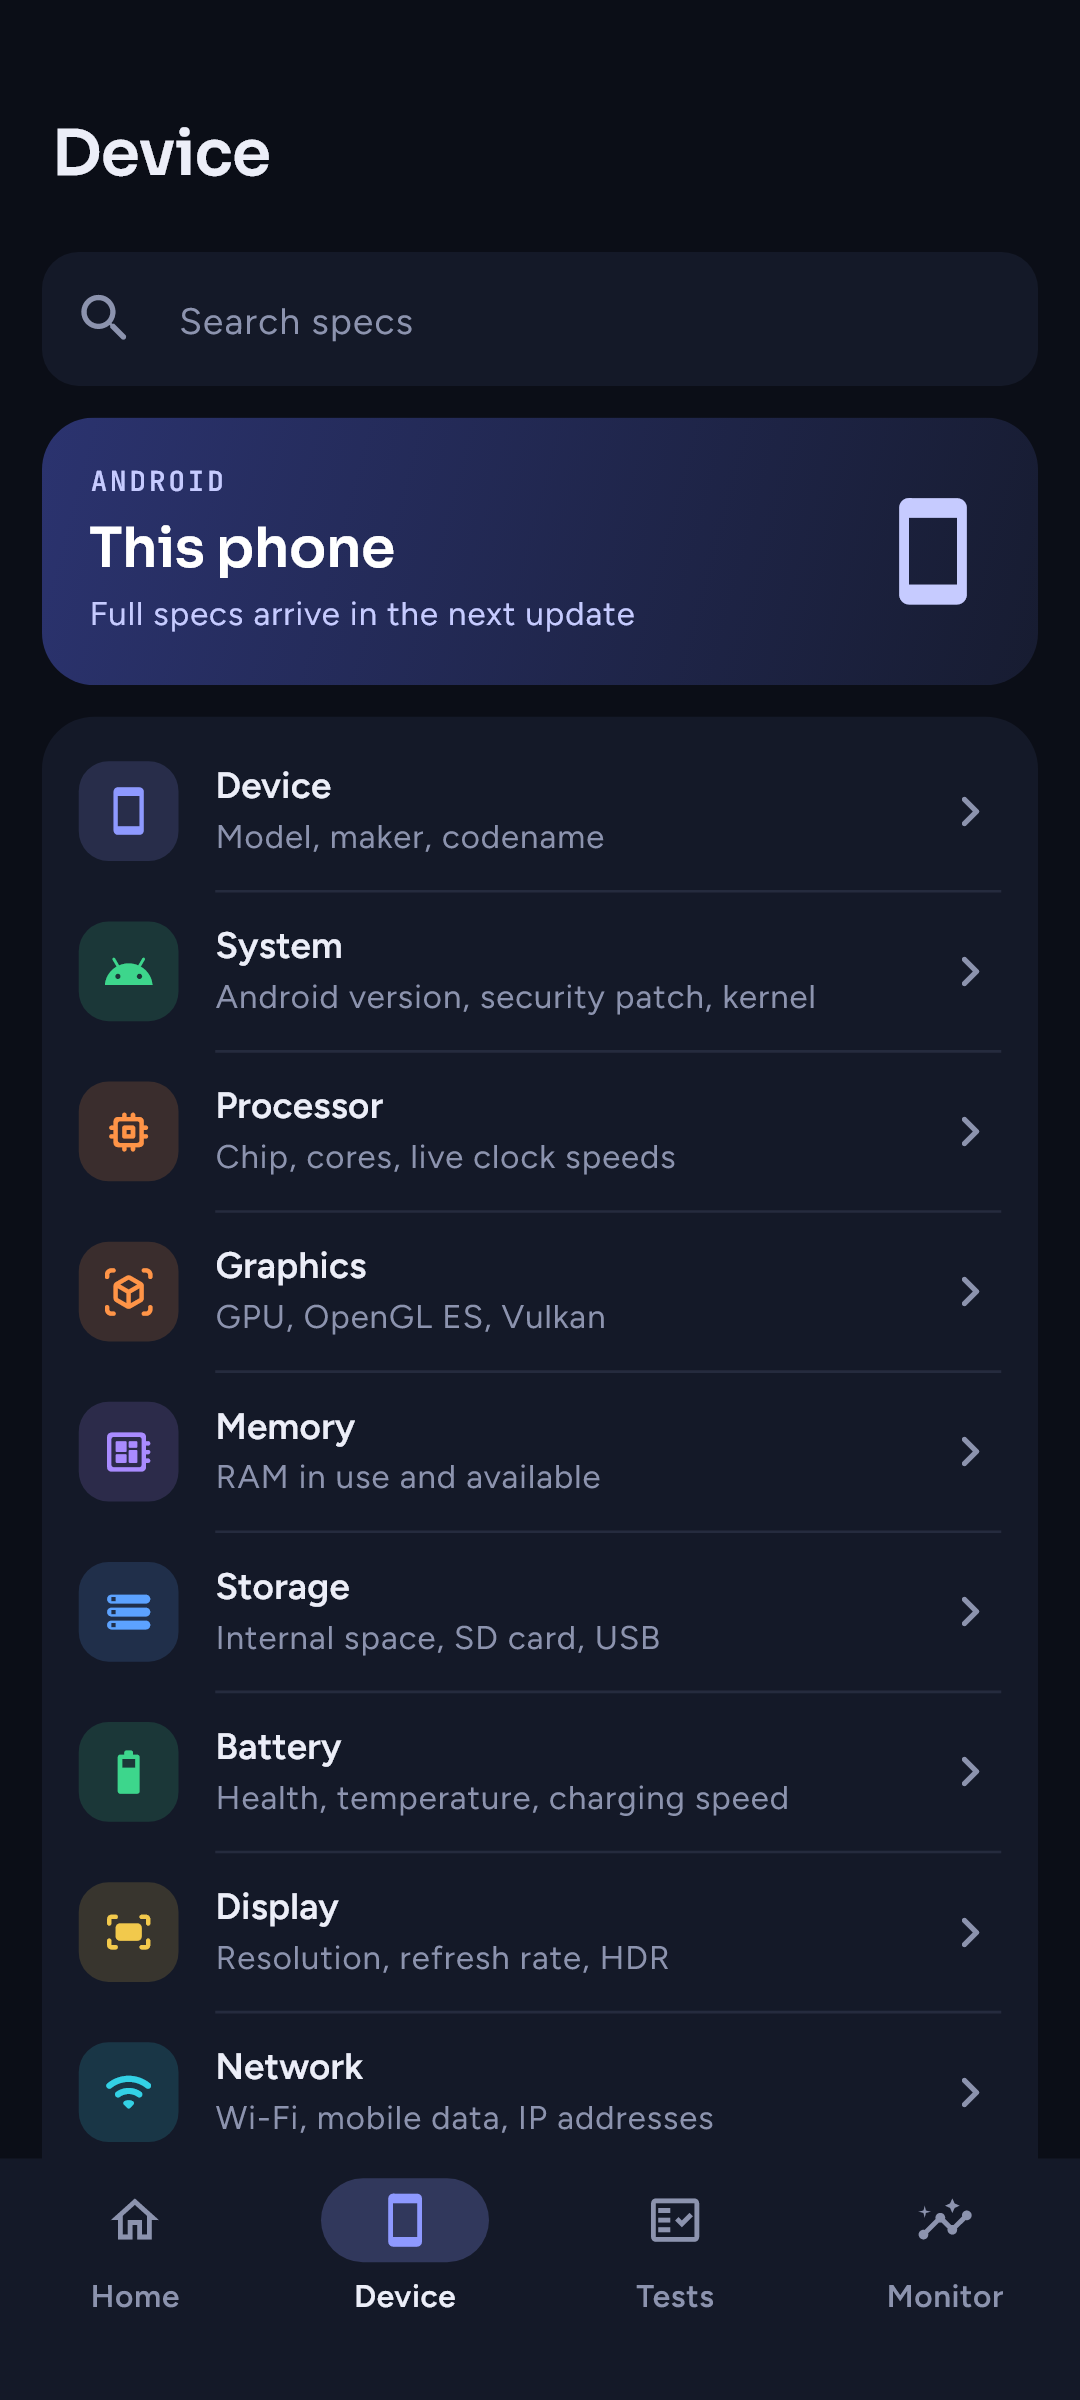
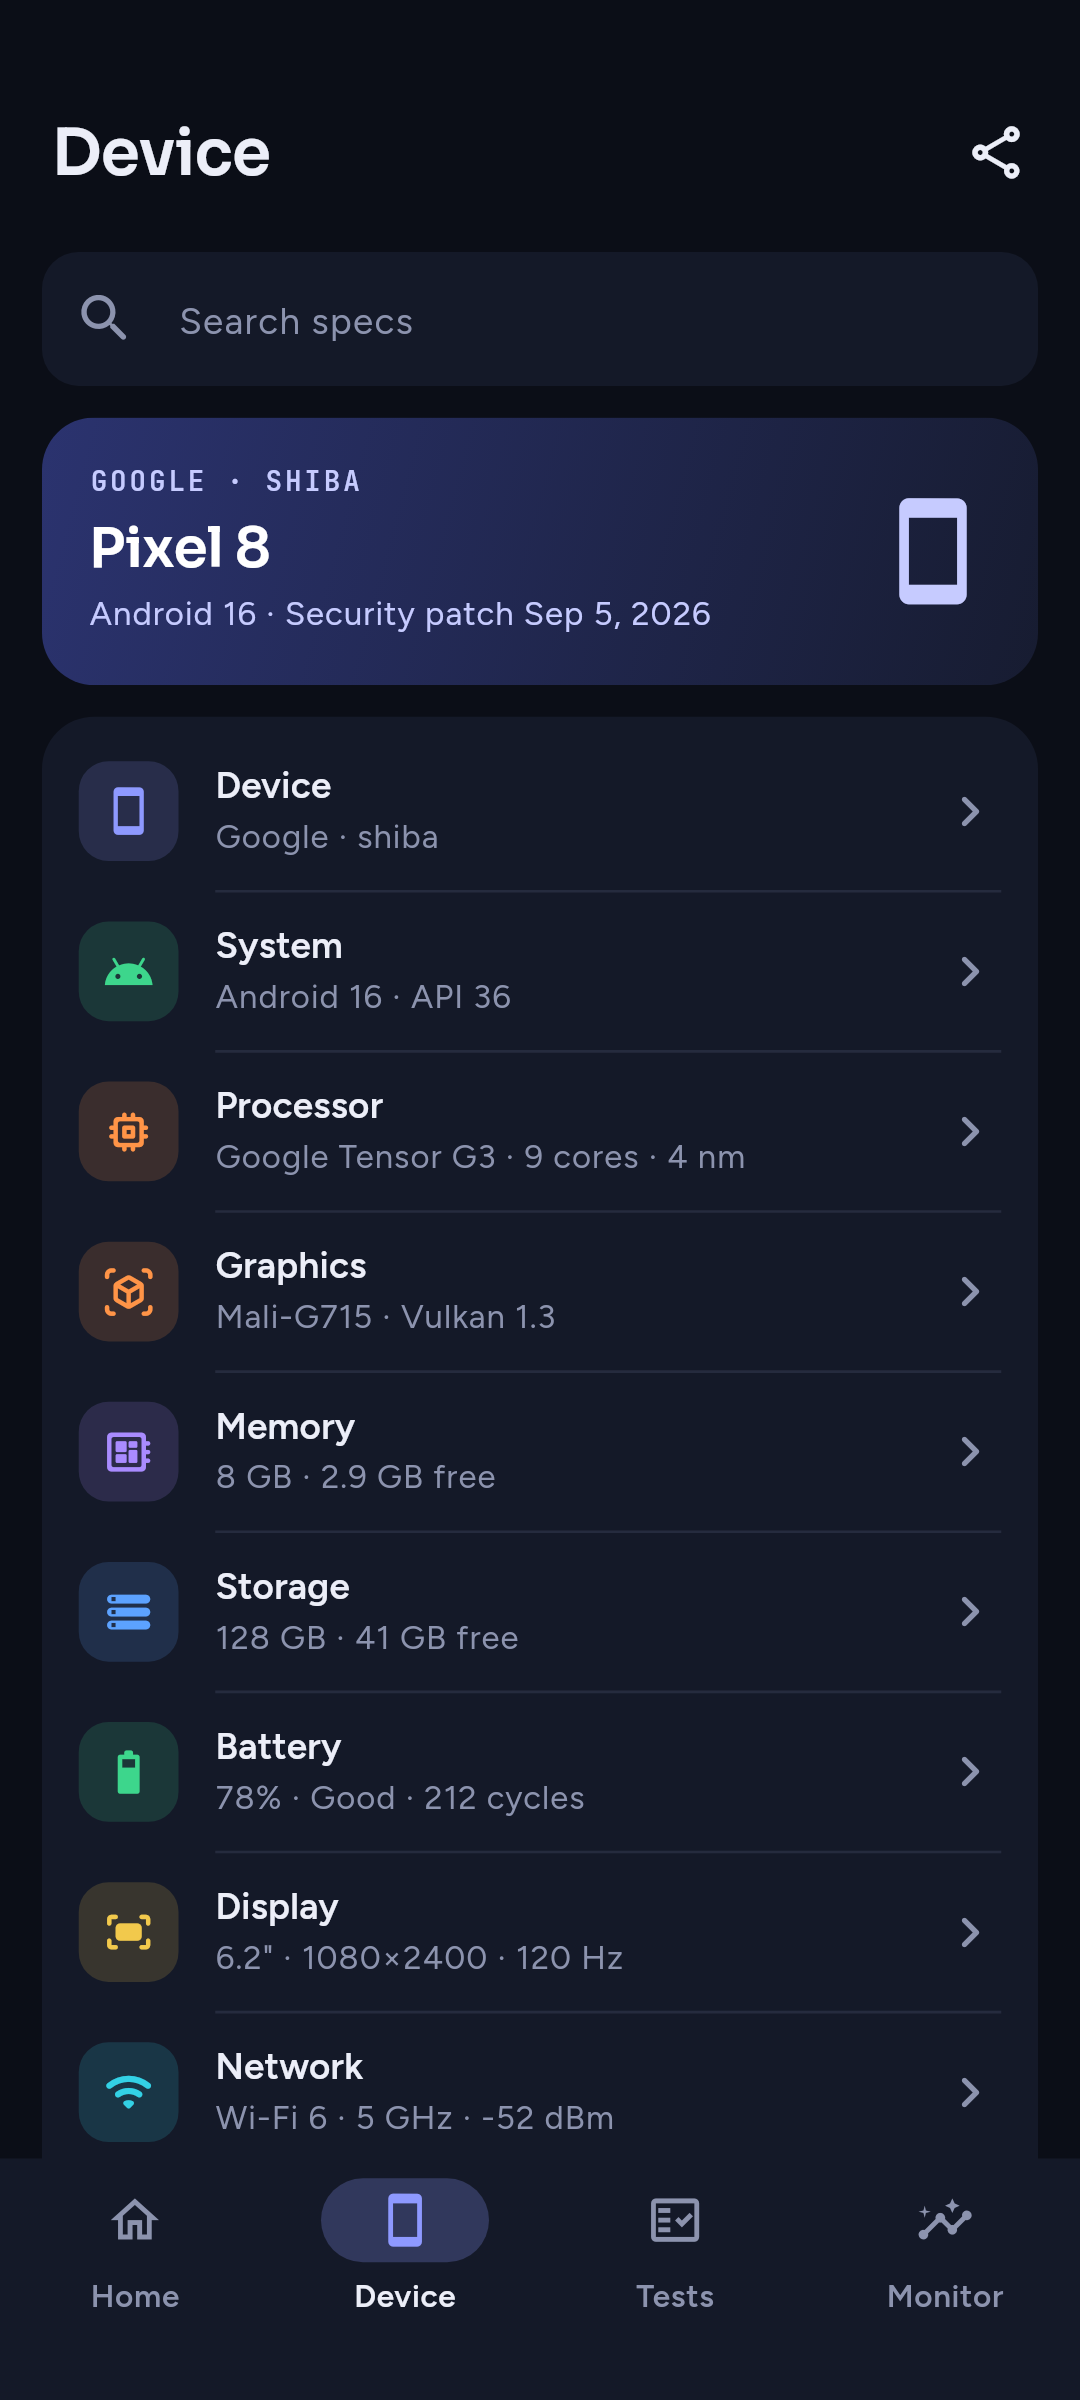
Stage 2: screenshots of the device screens, docs, plan status
Screenshot renders now run on the fake Pixel 8 data and add processor,
battery, network, security check and SIM screens. README lists the
Kotlin test command and the English-only spec labels; the plan marks
Stage 2 as ready to test on a phone.

Claude-Session: https://claude.ai/code/session_01HzGgrf8mJzWqPVbmwGG37y

diff --git a/plan/systemx-plan.html b/plan/systemx-plan.html
@@ -766,7 +766,7 @@ flowchart TB
   <div class="stages">
     <div class="stage done"><div class="n">0<small>Done</small></div><div class="bd"><h3>Plan &amp; design</h3><p class="muted">This page: code audit, features, design system, screen designs, roadmap.</p></div></div>
     <div class="stage done"><div class="n">1<small>Done</small></div><div class="bd"><h3>New project, design system and app shell</h3><ul><li>New Flutter project <code>systemx/</code> (app id <code>com.systemx.app</code>), R8 and signing config</li><li>Theme: colors, fonts, shapes, dark, light, AMOLED and Material You</li><li>Components: gauge ring, stat tile, info row, test card, permission sheet</li><li>App icon, splash screen, 3-screen onboarding, 4-tab navigation, Settings screen</li></ul><p class="test"><b>You test:</b> install it, go through onboarding, switch themes, try the bottom tabs.</p></div></div>
-    <div class="stage"><div class="n">2<small>Info</small></div><div class="bd"><h3>All device information</h3><ul><li>All system probes, with unit tests for the file parsers</li><li>15 category screens, search, copy and share spec sheet</li><li>Device name and SoC lookup tables bundled offline</li><li>Permission sheet flow for Location and Phone</li></ul><p class="test"><b>You test:</b> compare values with your phone's Settings › About phone, deny and allow permissions.</p></div></div>
+    <div class="stage"><div class="n">2<small>To test</small></div><div class="bd"><h3>All device information</h3><ul><li>All system probes, with unit tests for the file parsers</li><li>15 category screens, search, copy and share spec sheet</li><li>Device name and SoC lookup tables bundled offline</li><li>Permission sheet flow for Location and Phone</li></ul><p class="test"><b>You test:</b> compare values with your phone's Settings › About phone, deny and allow permissions.</p></div></div>
     <div class="stage"><div class="n">3<small>Live</small></div><div class="bd"><h3>Live dashboard, detail screens and Monitor tab</h3><ul><li>Real-time data, health score, tips</li><li>CPU, battery, network and thermal detail screens with live charts</li></ul><p class="test"><b>You test:</b> plug in a charger and watch the current change, download something and watch network speed.</p></div></div>
     <div class="stage"><div class="n">4<small>Tests</small></div><div class="bd"><h3>Diagnostics and reports</h3><ul><li>32 tests, guided checkup wizard, saved results history</li><li>PDF report export and share</li></ul><p class="test"><b>You test:</b> run a full checkup and open the PDF on a computer.</p></div></div>
     <div class="stage"><div class="n">5<small>Background</small></div><div class="bd"><h3>Notifications, history and widgets</h3><ul><li>Live status service, alerts, charge alarm, charging sessions</li><li>Background sampling and 24 h / 7 day history, weekly summary</li><li>Glance widgets, Quick Settings tile, app shortcuts</li></ul><p class="test"><b>You test:</b> leave live status on for a day and report the battery cost. Add the widget and the tile.</p></div></div>

diff --git a/systemx/screenshots/screens_test.dart b/systemx/screenshots/screens_test.dart
@@ -13,6 +13,10 @@ import 'package:shared_preferences_platform_interface/shared_preferences_async_p
 import 'package:systemx/app.dart';
 import 'package:systemx/core/router.dart';
 import 'package:systemx/core/settings/settings.dart';
+import 'package:systemx/features/device/device_data.dart';
+import 'package:systemx/platform/platform.dart';
+
+import '../test/fakes.dart';
 
 Future<void> _loadFonts() async {
   Future<void> load(String family, String path) async {
@@ -37,14 +41,19 @@ Future<void> _shoot(
   bool onboarded = true,
   ThemeMode theme = ThemeMode.dark,
 }) async {
+  final api = FakeDeviceApi()..phoneGranted = true;
   SharedPreferencesAsyncPlatform.instance =
       InMemorySharedPreferencesAsync.empty();
   final prefs = await SharedPreferencesWithCache.create(
     cacheOptions: const SharedPreferencesWithCacheOptions(
         allowList: SettingsNotifier.keys),
   );
-  final c = ProviderContainer(
-      overrides: [prefsProvider.overrideWithValue(prefs)]);
+  final c = ProviderContainer(overrides: [
+    prefsProvider.overrideWithValue(prefs),
+    // Pixel 8 sample values, since tests have no phone to read.
+    deviceApiProvider.overrideWithValue(api),
+    permissionApiProvider.overrideWithValue(FakePermissionApi(api)),
+  ]);
   if (onboarded) await c.read(settingsProvider.notifier).completeOnboarding();
   await c.read(settingsProvider.notifier).setThemeMode(theme);
 
@@ -79,6 +88,15 @@ void main() {
     await _shoot(tester, '6_settings', Routes.settings);
     await _shoot(tester, '7_privacy', Routes.privacy);
     await _shoot(tester, '8_home_light', Routes.home, theme: ThemeMode.light);
+    await _shoot(tester, '9_device_processor',
+        Routes.category(DeviceCategory.processor));
+    await _shoot(
+        tester, '10_device_battery', Routes.category(DeviceCategory.battery));
+    await _shoot(
+        tester, '11_device_network', Routes.category(DeviceCategory.network));
+    await _shoot(tester, '12_device_security',
+        Routes.category(DeviceCategory.security));
+    await _shoot(tester, '13_device_sim', Routes.category(DeviceCategory.sim));
     addTearDown(tester.view.reset);
   });
 }

diff --git a/systemx/README.md b/systemx/README.md
@@ -10,7 +10,8 @@ Plan and designs: `../plan/systemx-plan.html`
 
 - Flutter 3.41 (Dart 3.11), Android only for now
 - Riverpod (state), go_router (navigation), shared_preferences (settings)
-- Kotlin platform layer for system data (from Stage 2)
+- Kotlin platform layer for system data, called through Pigeon
+  (`pigeons/device_api.dart`)
 - English and Bangla (`lib/l10n/*.arb`)
 - minSdk 26 (Android 8.0), target/compile SDK 36
 
@@ -30,7 +31,8 @@ screenshots/   renders every screen to PNG for design review
 
 ```bash
 flutter run                                  # run on a connected phone
-flutter test                                 # unit + widget tests
+flutter test                                 # unit + widget tests (fake phone data)
+cd android && ./gradlew :app:testDebugUnitTest  # Kotlin parser tests
 flutter test screenshots --update-goldens    # render screens to screenshots/out
 flutter build apk --release --split-per-abi  # installable test APKs
 flutter build appbundle --release            # .aab for Play Console
@@ -51,6 +53,10 @@ Without it, release builds are signed with the debug key so they still install
 for testing.
 
 ## Notes
+
+- Spec labels added in Stage 2 are English only; the Bangla build falls back
+  to English for them until the Stage 6 translation pass.
+- Carrier balance codes live in `lib/features/device/carriers.dart`.
 
 - `android/gradle.properties` sets `kotlin.incremental=false` because the
   project and the pub cache are on different drives on the dev machine.
